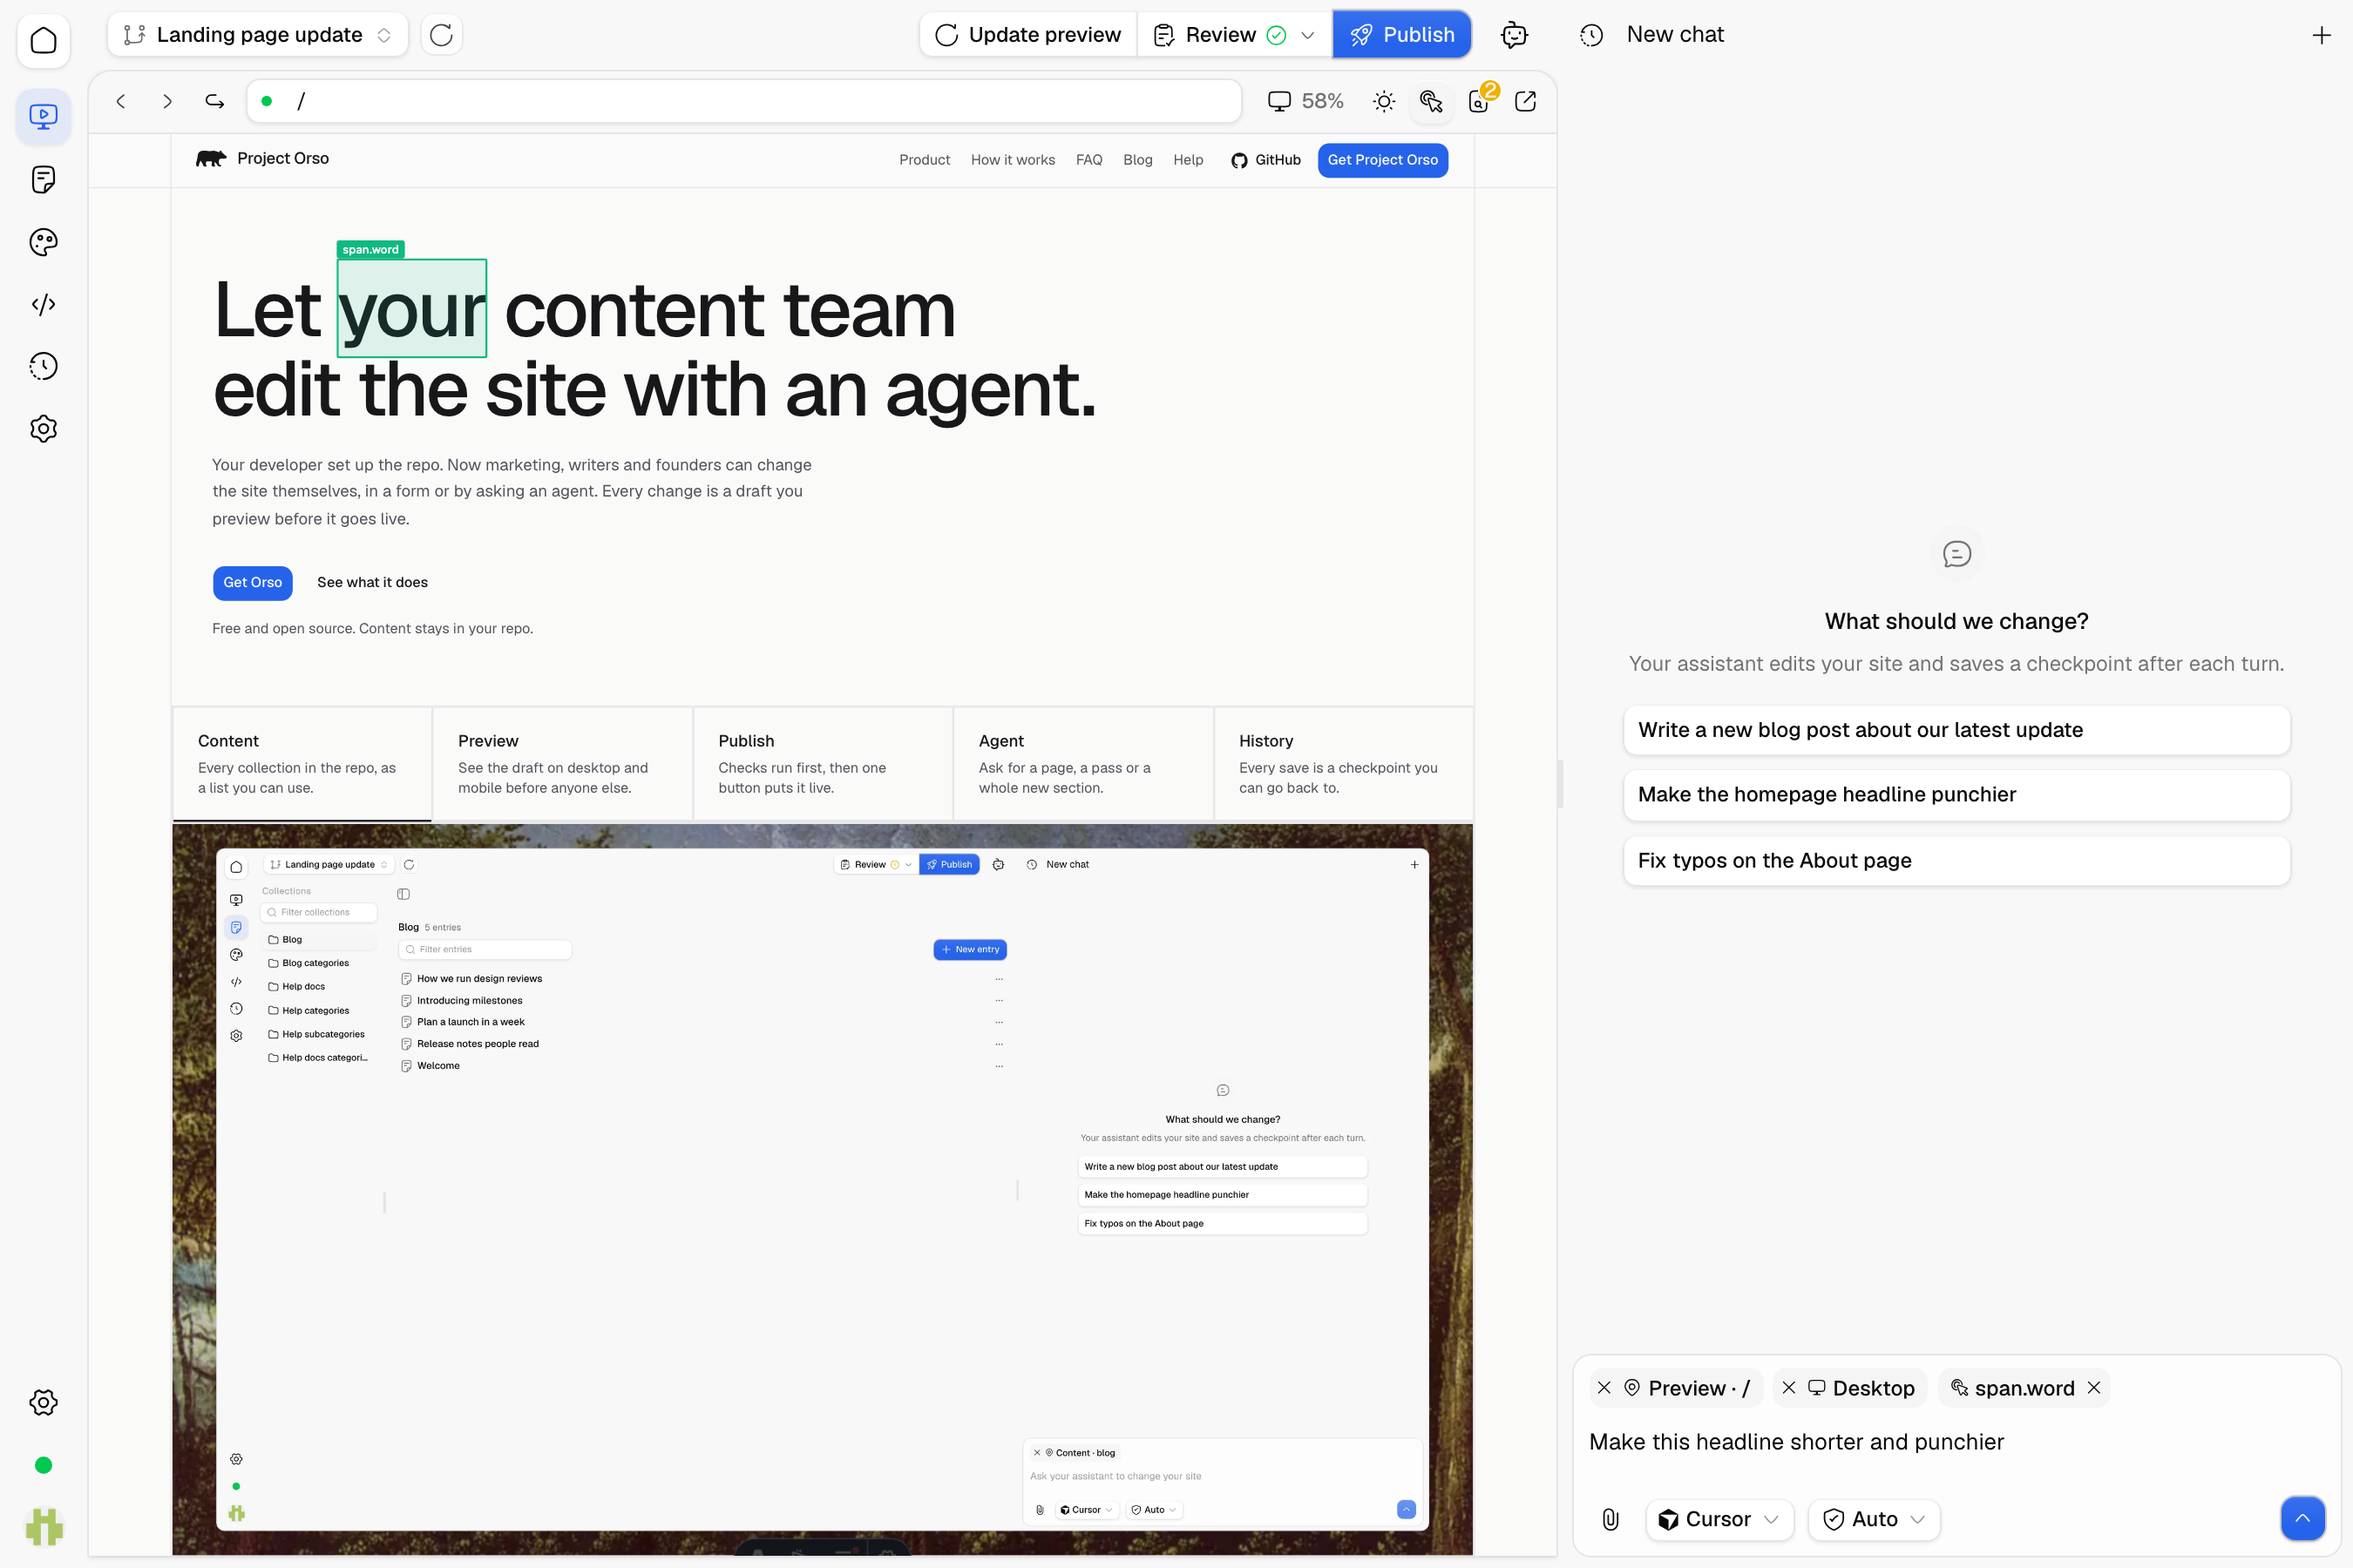
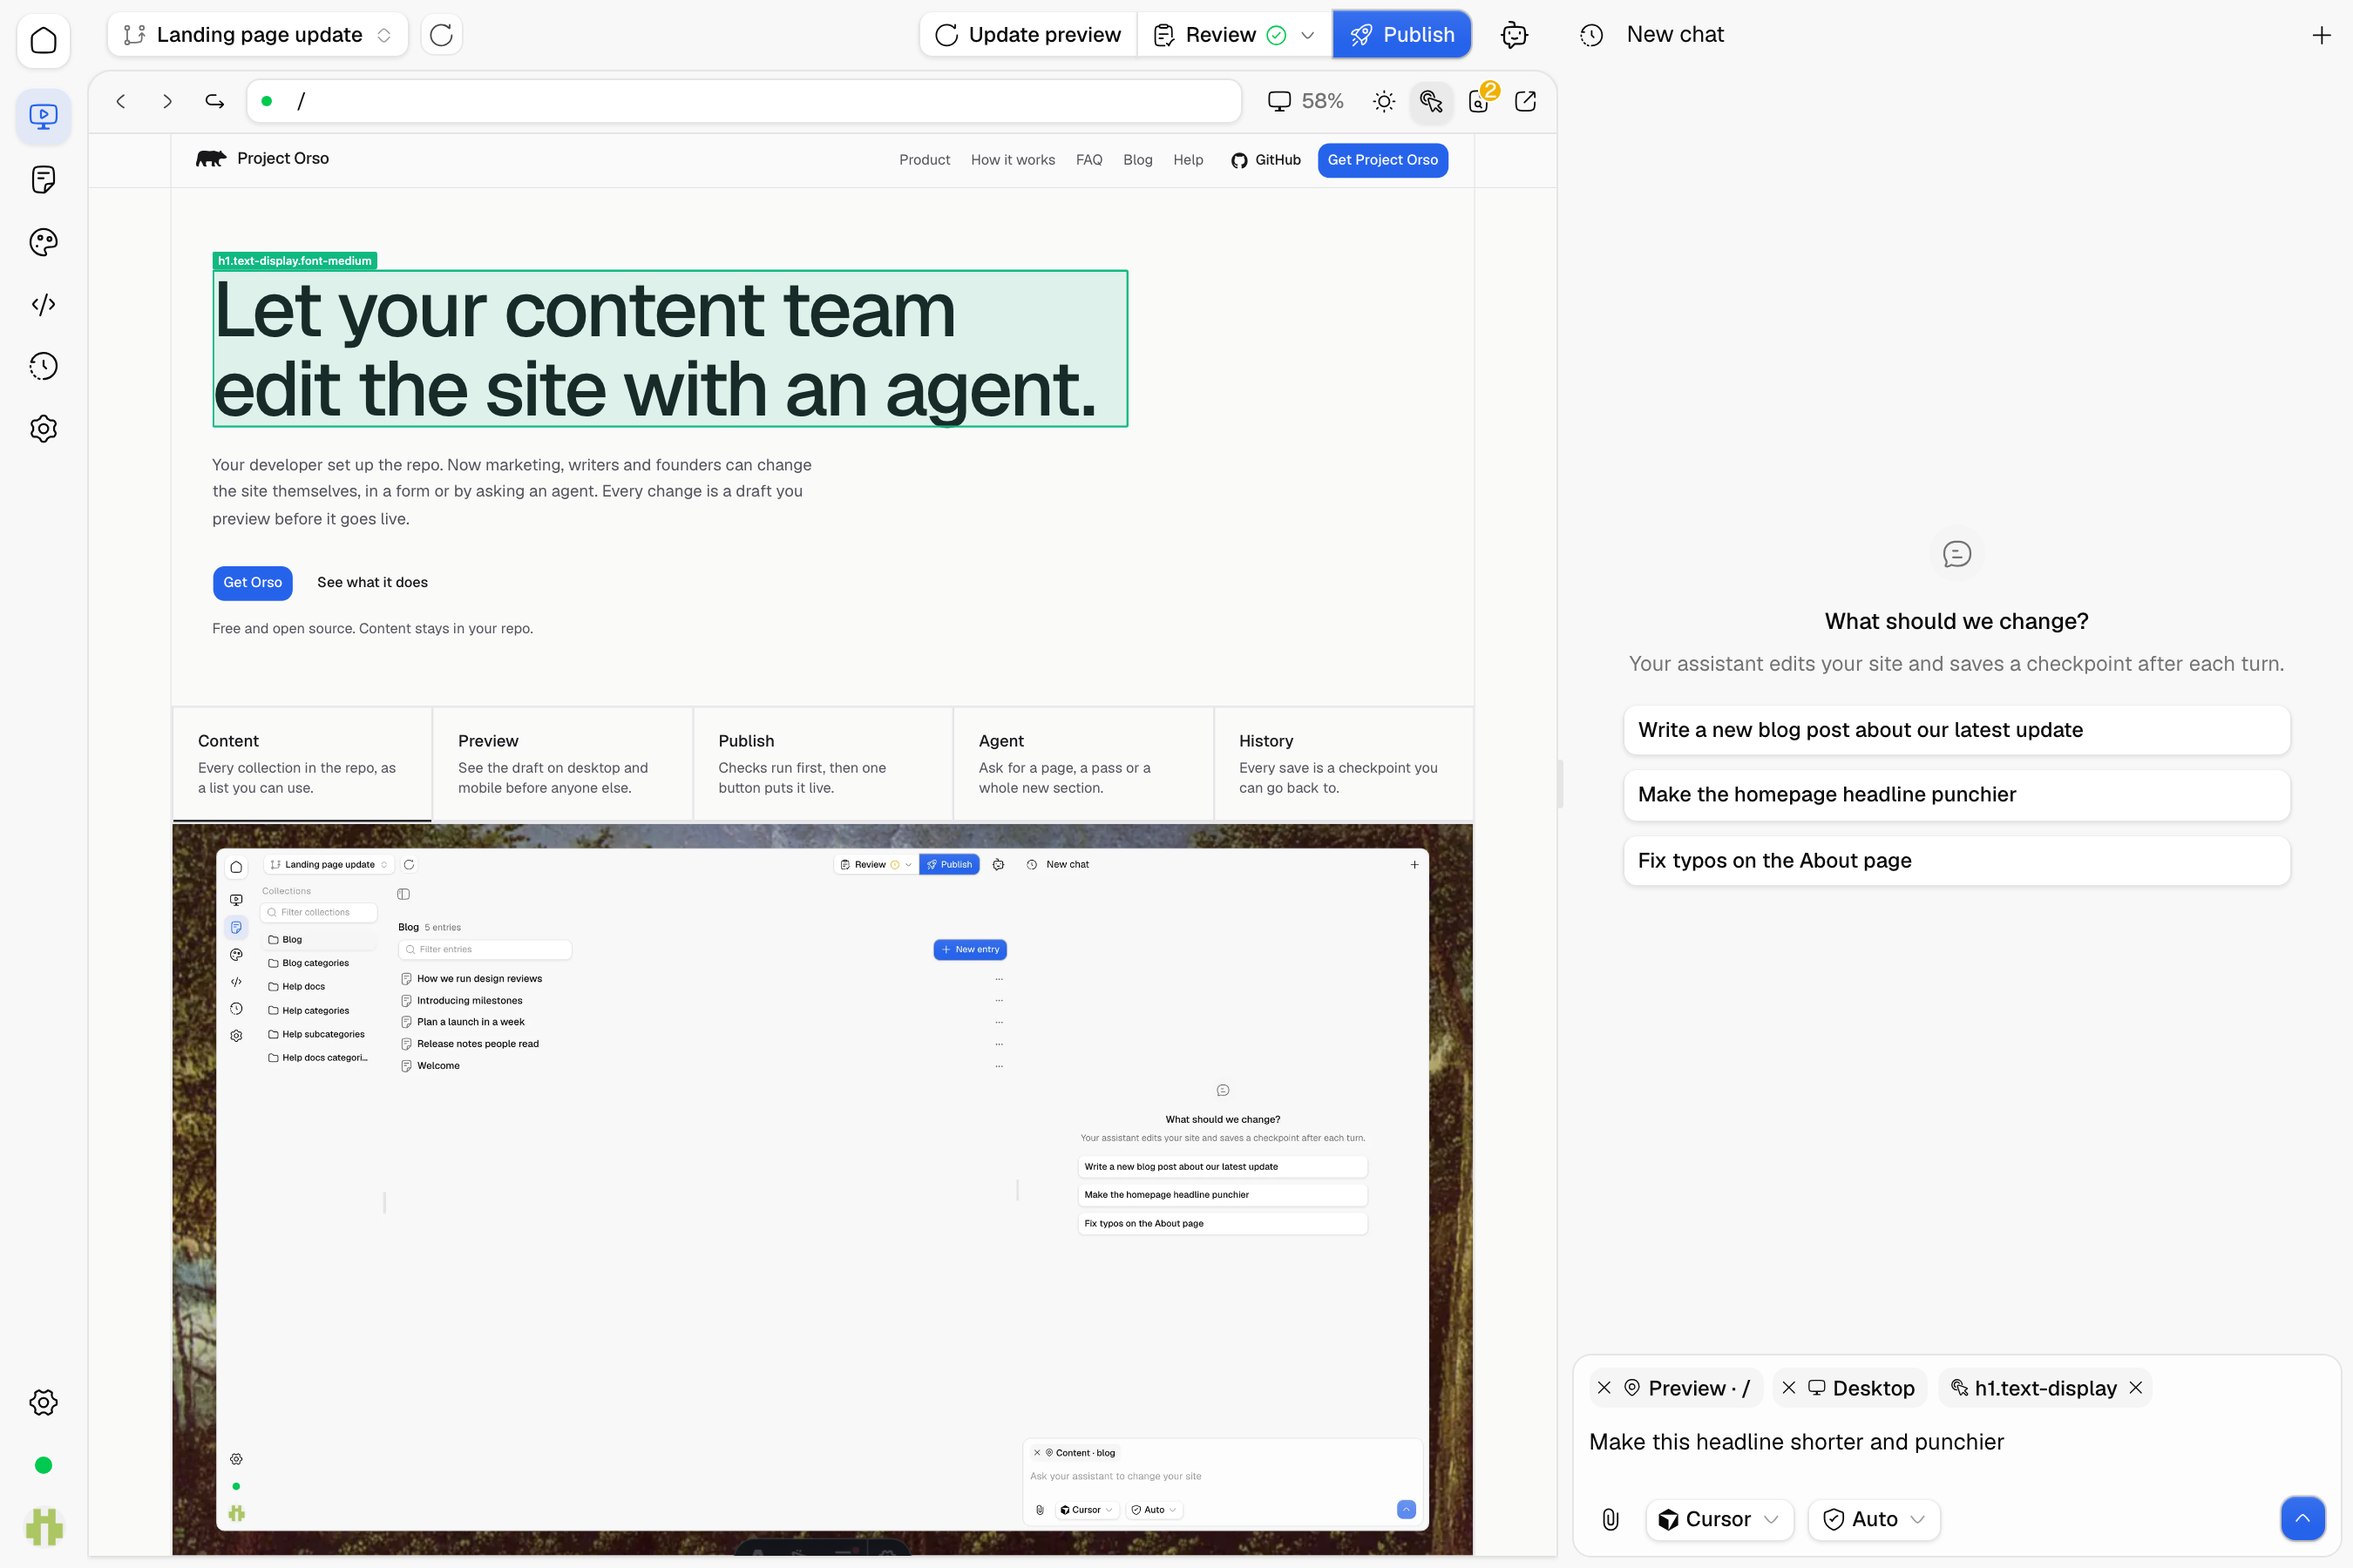
checkpoint: Make ops carousel screenshots fill full card width

Changed region(s): [[0.0933, 0.1556, 0.4978, 0.28], [0.84, 0.8711, 0.9022, 0.9022]]

diff --git a/site/src/components/react/OpsCarousel.tsx b/site/src/components/react/OpsCarousel.tsx
@@ -75,7 +75,7 @@ export function OpsCarousel({ shots }: { shots: Record<SlideKind, AppShotData> }
               )}
             >
               <Card className="flex h-full flex-col gap-0 rounded-none bg-transparent p-2 shadow-none ring-0">
-                <CardContent className="relative aspect-3/2 min-h-0 flex-1 overflow-hidden rounded-md border border-line p-0">
+                <CardContent className="relative shrink-0 overflow-hidden rounded-md border border-line p-0">
                   <img
                     src={paintingUrl(slide.painting)}
                     alt=""
@@ -85,12 +85,12 @@ export function OpsCarousel({ shots }: { shots: Record<SlideKind, AppShotData> }
                     className="absolute inset-0 size-full object-cover"
                   />
                   <div className="absolute inset-0 bg-night/20" aria-hidden="true" />
-                  <div className="relative flex size-full items-center justify-center p-2 md:p-3">
+                  <div className="relative p-2 md:p-3">
                     <AppShot
                       shot={shots[slide.kind]}
                       alt={alts[slide.kind]}
                       sizes="(min-width: 64rem) 32rem, (min-width: 48rem) 50vw, 80vw"
-                      className="h-full max-h-full w-auto max-w-full"
+                      className="aspect-3/2 w-full"
                     />
                   </div>
                 </CardContent>
